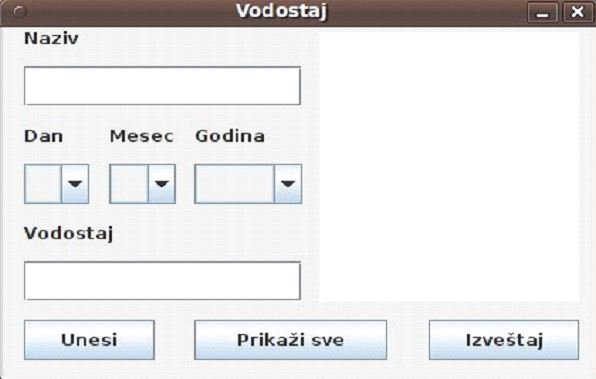
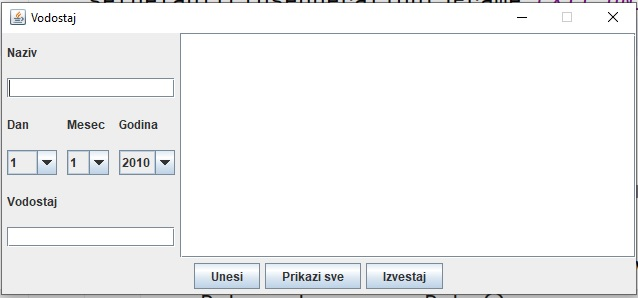
Izmenjeni tekst zadatka i slika

Changed region(s): [[0.0, 0.0, 1.0, 1.0], [0.0, 0.151, 0.5134, 0.6342], [0.3322, 0.3322, 0.453, 0.3926]]

diff --git a/src/tekst_zadatka.md b/src/tekst_zadatka.md
@@ -1,9 +1,10 @@
-#Zadatak 4
+# Zadatak 1
 
-Napraviti javnu klasu **Reka** u paketu **vodostaj.reka** koja može da se serijalizuje i ima:
+Napraviti javnu klasu **Reka** u paketu **vodostaj.reka**
+koja može da se serijalizuje i ima:
 
 * Privatni atribut **naziv** koji predstavlja naziv reke. Početna vrednost je NULL.
-* Privatni atribut **datumMerenja** koji predstavlja datum merenja vodostaja (klasa GregorianCalendar).
+* Privatni atribut **datumMerenja** koji predstavlja datum merenja vodostaja (klasa LocalDate).
 * Privatni atribut **vodostaj** koji predstavlja nivo vode u metrima. Početna vrednost je -1.
 * Odgovarajuće javne get i set metode za ove atribute. Nedozvoljene vrednosti za naziv su null i Stringovi kraći od dva znaka, vodostaj mora biti nula ili veći, a datum mora da bude različit od null i pre trenutnog datuma. U slučaju unosa nedozvoljenih vrednosti baciti izuzetak.
 * Redefinisanu metodu toString koja vraća String sa svim podacima o reci uz odgovarajući tekst.
@@ -13,52 +14,41 @@ Napraviti vizuelnu klasu **VodostajGUI** u paketu **vodostaj** koja izgleda kao 
 
 * Klasa VodostajGUI bi trebalo da sadrži privatni atribut **reke** koja predstavlja niz objekata klase Reka. Niz odmah inicijalizovati na kapacitet od 100 elemenata.
 * Kada se pritisne dugme “Unesi”, preuzimaju se vrednosti svih polja za unos na ekranu, pravi se novi objekat klase Reka, puni se ovim podacima i unosi se u niz na prvo slobodno mesto. Mesto u nizu je slobodno ako element na tom mestu ima vrednost NULL.
+U slučaju da u nizu nema slobodnih mesta, prikazati pomoćni prozor preko klase JOptionPane sa porukom "Nema mesta".
 * Kada se pritisne dugme “Prikaži sve”, potrebno je u editoru ispisati sve podatke o svakoj reci iz niza. U prvom redu ispisati reč “VODOSTAJ” a onda podatke o svakoj reci ispisati u posebnom redu. Obratiti pažnju na prazna mesta u nizu. Na kraju ispisati i naziv reke sa najvišim vodostajem.
-* Kada se pritisne dugme “Izveštaj”, potrebno je u tekstualni fajl “izveštaj.txt” upisati podatke o onim rekama iz niza u kojima je vodostaj u odnosu na prethodno merenje porastao za više od metar. Računati na to da se u nizu nalaze podaci iz samo dva poslednja merenja za svaku reku. Sam redosled ovih podataka o merenju u nizu nije definisan. Obratiti pažnju na prazna mesta u nizu.
+* Kada se pritisne dugme “Izveštaj”, potrebno je u tekstualni fajl “izvestaj.txt” upisati podatke o onim rekama iz niza u kojima je vodostaj u odnosu na prethodno merenje porastao za više od metar. Računati na to da se u nizu nalaze podaci iz samo dva poslednja merenja za svaku reku. Sam redosled ovih podataka o merenju u nizu nije definisan. Obratiti pažnju na prazna mesta u nizu.
 
 ![Alt text](../images/VodostajGUI.JPG)
 
-#Zadatak 4 - Ispravka koda 
-U produžetku teksta je dat kod klase sa metodom koja bi trebalo da, na ekranu, ispisuje strelicu od znakova
-0. Ideja je da strelica bude visine šest redova, širine 5 znakova i okrenuta “na dole”, tako da bi konačan ispis
-na ekranu trebalo da bude:
+# Zadatak 2 - Ispravka koda
 
-		0
+U produžetku teksta je dat kod klase sa metodom koja bi trebalo da, na ekranu, ispisuje
+strelicu od znakova 0. Ideja je da strelica bude visine šest redova, širine 5 znakova
+i okrenuta “na dole”, tako da bi konačan ispis na ekranu trebalo da bude:
 
-		0
-   
-		0
-   
-	0   0	0
+        0
+        0 
+        0 
+      0 0 0
+       000
+        0
 
-	   000
- 
-		0
 Dati kod se kompajlira, ali ne radi to šta treba. Napraviti javnu klasu **IspisivacStrelice2** u paketu
 **ispravka_koda**, prekucati u nju kod koji je dat i, __uz minimalne izmene__ ga ispraviti tako da funkcioniše
 kako treba. Napraviti test klasu i, koristeći njenu main metodu, pozvati metodu ispisiStrelicu2() i proveriti
 njen rad.
 
-package ispravka_koda;
-
-	public class IspisivacStrelice2 {
-	
-		public static void ispisiStrelicu2() {
-		
-			for (int i=1; i<7; i++) {
-			
-				for(int j=1; j<6; j++)
-				
-					if (j==1 || i-j==2 || i+j==9)
-					
-						System.out.print('0');
-						
-					else
-					
-						System.out.print(' ');
-						
-			}
-			
-	}
-	
-}
+    package ispravka_koda;
+    
+        public class IspisivacStrelice2 {
+        
+            public static void ispisiStrelicu2() {
+                for (int i=1; i<7; i++) {
+                    for(int j=1; j<6; j++)
+                        if (j==1 || i-j==2 || i+j==9)
+                            System.out.print('0');
+                        else
+                            System.out.print(' ');
+                }
+        }
+    }
